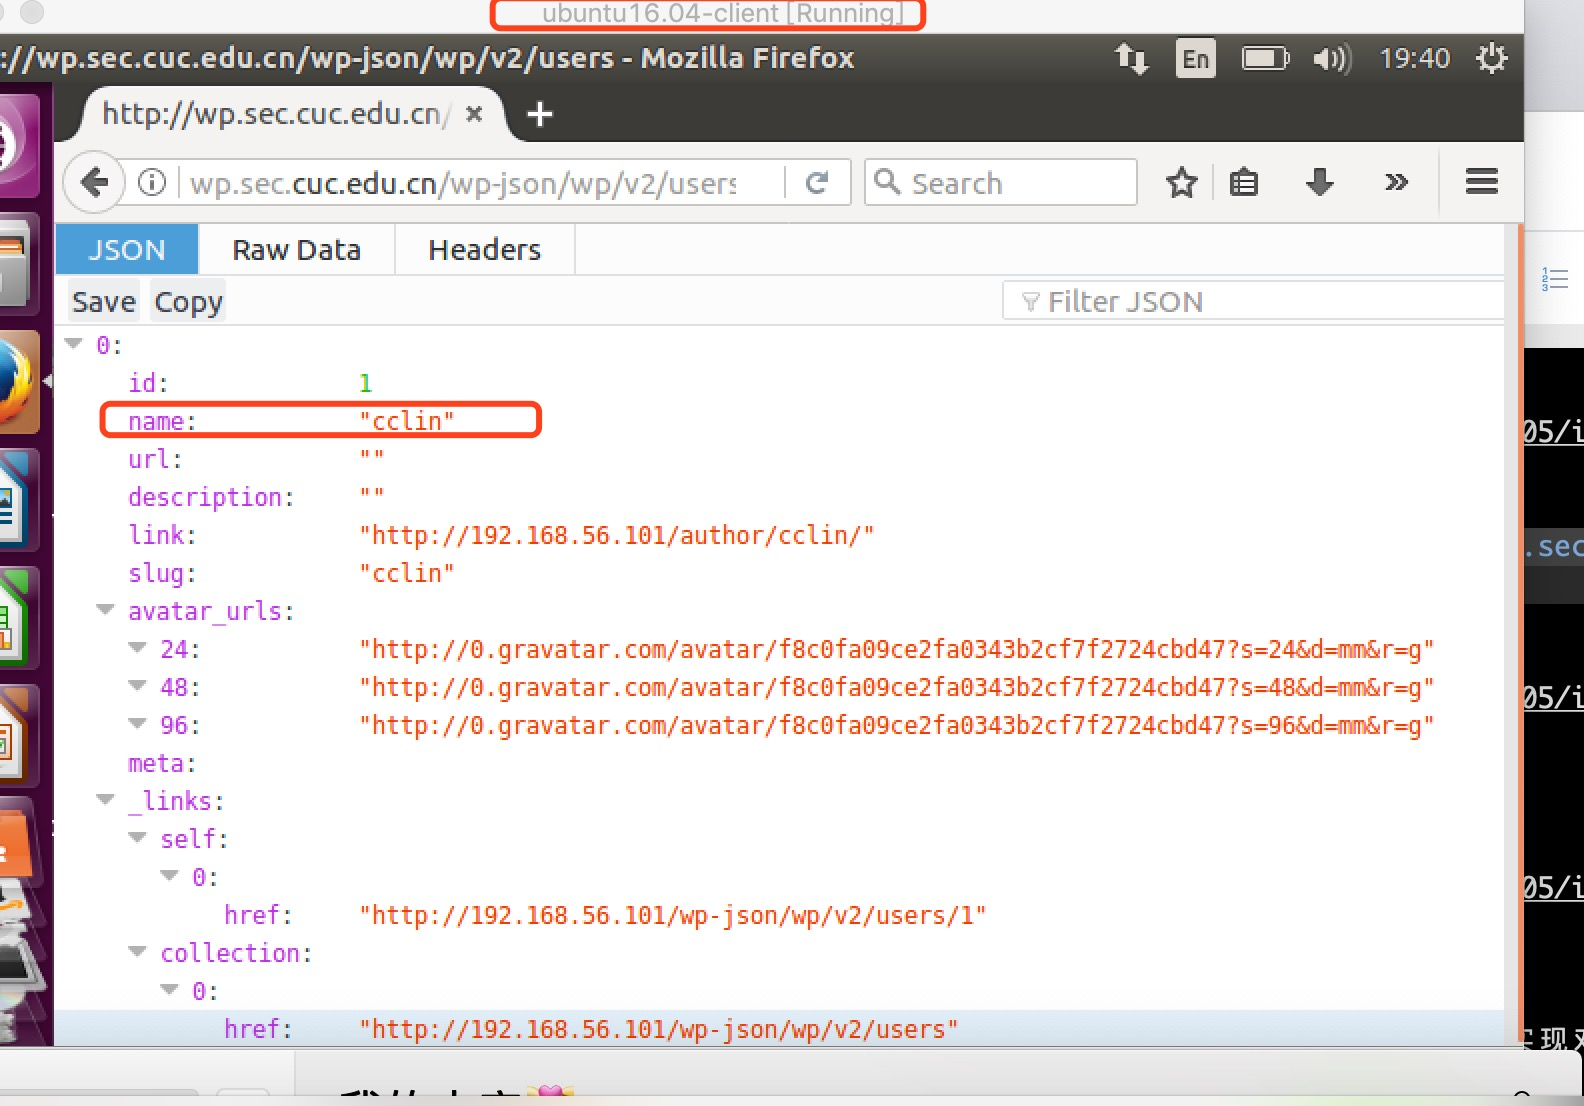
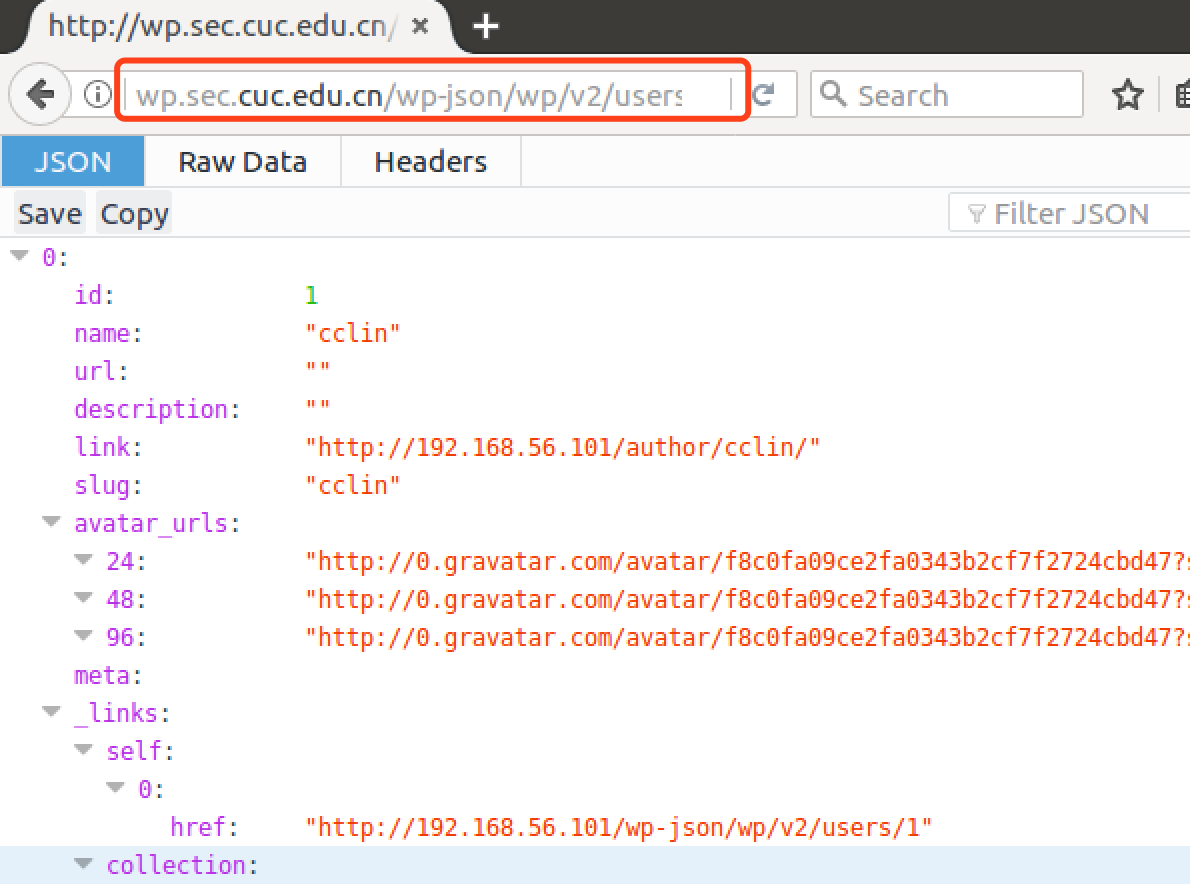
Add missing pictures

diff --git a/Linux系统与网络管理/chap0x05/chap0x05 web server.md b/Linux系统与网络管理/chap0x05/chap0x05 web server.md
@@ -26,26 +26,34 @@
     - 禁止curl访问
 
 ### 三、实验环境
-- 实验环境服务器ip地址说明：由于实验时间跨度交到，分别多次进行，开启服务器顺序不同，所以ip地址设置并不唯一不变，但三个服务器均配置NAT与hostonly：196.168.56.*/24两块网卡
+- 实验环境服务器ip地址说明：由于实验时间跨度交到，分别多次进行，开启服务器顺序不同，所以ip地址设置并不唯一不变，但三个服务器均配置NAT与hostonly：196.168.56.*/24两块网卡(下列标明实验结果中展示服务器与客户机ip地址)
+
 - 服务器×3
   -  Ubuntu 16.04-1
      - Ubuntu 16.04 desktop 64bit
-     - host only，NAT
+     - host only:192.168.56.104，NAT
      - nginx/1.10.0
      - verynginx
   -  ubuntu 16.04-2
       - Ubuntu 16.04 desktop 64bit
-      - host only,NAT
+      - host only:192.168.56.101,NAT
       - wordpress 4.
       - nginx
   -  ubuntu 16.04-3
      - Ubuntu 16.04 desktop 64bit
-     - host only,NAT
+     - host only:192.168.56.103,NAT
      - dvwa 1.10
      - nginx
+     
+服务器名称   |       ubuntu16.04-1         |     ubuntu16.04-2       |         ubuntu16.04-3
+    ---    |            ---              |           ---           |               ---
+ ip 地址    |       192.168.56.104        |      192.168.56.101     |         192.168.56.103
+   配置     | verynginx+nginx(http:80端口) | dvwa+nginx(http:80端口) | wordpress+nginx(http:80端口;https:443端口)
+
 - 客户端×2
    - macOS Mojave 10.14.4
    - ubuntu16.04-client（PD虚拟机内部）
+     - host only:192.168.56.102
 
 ### 四、实验过程
 #### (一) 安装配置环境
@@ -384,17 +392,17 @@ if ( defined( 'RELOCATE' ) && RELOCATE ) { // Move flag is set
     ![](/Linux系统与网络管理/chap0x05/images/ubuntu1_hosts.png)
     ![](/Linux系统与网络管理/chap0x05/images/ubuntuc_hosts.png)
     ![](/Linux系统与网络管理/chap0x05/images/ubuntum_hosts.png)
-
+    
       - Matcher
-
+    
     ![](/Linux系统与网络管理/chap0x05/images/basic_matcher.png)
-
+    
       - Up Stream,Proxy Pass
-
+    
     ![](/Linux系统与网络管理/chap0x05/images/proxypass.png)
-
+    
       - 结果：Ubuntu16.04-1、macOS-client分别访问`http://dvwa.sec.cuc.edu.cn`,`http://wp.sec.cuc.edu.cn`
-
+    
     ![](/Linux系统与网络管理/chap0x05/images/dvwa_proxy.png)
     ![](/Linux系统与网络管理/chap0x05/images/wp_proxy.png)
     ![](/Linux系统与网络管理/chap0x05/images/mdvwa_proxy.png)
@@ -425,6 +433,7 @@ if ( defined( 'RELOCATE' ) && RELOCATE ) { // Move flag is set
 #### 安全加固要求
 
 - [ ] 使用IP地址方式均无法访问上述任意站点，并向访客展示自定义的友好错误提示信息页面-1
+
 - [x] ubuntu16.04-1配置
    - Matcher
 
@@ -443,6 +452,7 @@ if ( defined( 'RELOCATE' ) && RELOCATE ) { // Move flag is set
      ![](/Linux系统与网络管理/chap0x05/images/ip_dissucceed.png)
 
 - [ ] Damn Vulnerable Web Application (DVWA)只允许白名单上的访客来源IP，其他来源的IP访问均向访客展示自定义的友好错误提示信息页面-2
+
 - [x] ubuntu16.04-1配置:将ubuntu16.04-client ip：`192.168.56.102`列入白名单
    - Matcher
 
@@ -467,21 +477,48 @@ if ( defined( 'RELOCATE' ) && RELOCATE ) { // Move flag is set
 
    - Matcher
 
-     ![](/Linux系统与网络管理/chap0x05/images/wp_uedisabled.png)
+      ![](/Linux系统与网络管理/chap0x05/images/wp_uedisabled.png)
+
+   - Response
+
+      ![](/Linux系统与网络管理/chap0x05/images/wp_ueresponse.png)
 
    - Filter
 
-     ![](/Linux系统与网络管理/chap0x05/images/wp_uefilter.png)
+      ![](/Linux系统与网络管理/chap0x05/images/wp_uefilter.png)
 
-   - 结果：ubuntu16.04-client访问`wp.sec.cuc.edu.cn/wp-json/wp/v2/users`
-     - 未设置过滤规则之前
+   - 结果：ubuntu16.04-client访问`wp.sec.cuc.edu.cn/wp-json/wp/v2/users/`
+      - 未设置过滤规则之前
 
-     ![](/Linux系统与网络管理/chap0x05/images/wp_uefailed.png)     
+         ![](/Linux系统与网络管理/chap0x05/images/wp_uefailed.png)     
 
      - 设置过滤规则后
 
-     ![](/Linux系统与网络管理/chap0x05/images/wp_uesucceed.png)
+        ![](/Linux系统与网络管理/chap0x05/images/wp_uesucceed.png)
+      
+- [ ] 在不升级Wordpress版本的情况下，通过定制VeryNginx的访问控制策略规则，热修复WordPress < 4.7.1 - Username Enumeration
+- [x] ubuntu16.04-1配置[`访问/wp-json/wp/v2/users/可以获取wordpress用户信息的json数据，禁止访问·`wp.sec.cuc.edu.cn`站点的/wp-json/wp/v2/users/路径`](https://github.com/CUCCS/linux/blob/master/2017-1/zjy/exp5/exp5%E5%AE%9E%E9%AA%8C%E6%8A%A5%E5%91%8A.md)
 
+- Matcher
+
+![](/Linux系统与网络管理/chap0x05/images/wp_uedisabled.png)
+
+- Response
+
+![](/Linux系统与网络管理/chap0x05/images/wp_ueresponse.png)
+
+- Filter
+
+![](/Linux系统与网络管理/chap0x05/images/wp_uefilter.png)
+
+- 结果：ubuntu16.04-client访问`wp.sec.cuc.edu.cn/wp-json/wp/v2/users/`
+- 未设置过滤规则之前
+
+![](/Linux系统与网络管理/chap0x05/images/wp_uefailed.png)     
+
+- 设置过滤规则后
+
+![](/Linux系统与网络管理/chap0x05/images/wp_uesucceed.png)
 
 - [ ] 通过配置VeryNginx的Filter规则实现对Damn Vulnerable Web Application (DVWA)的SQL注入实验在低安全等级条件下进行防护
 - [x] ubuntu16.04-1、ubuntu16.04-3配置
@@ -542,42 +579,25 @@ if ( defined( 'RELOCATE' ) && RELOCATE ) { // Move flag is set
     - [ ] 超过访问频率限制的请求直接返回自定义错误提示信息页面-4
     - [x] ubuntu16.04-1配置
       - Frequency Limit
-
+      
        ![](/Linux系统与网络管理/chap0x05/images/frequencylimit.png)
 
       - Response
-
+     
        ![](/Linux系统与网络管理/chap0x05/images/frequencylimitRE.png)
-
-      - macOS Mojave编写脚本访问`http://dvwa.sec.cuc.edu.cn`
-    ```bash
-    #!/bin/bash
-    # dvwa_frequencytest.sh
-      count=0
-      while [ $count -lt 53 ]
-      do
-         echo "Frequency : $count"
-         curl -v http://dvwa.sec.cuc.edu.cn
-         count=$[ $count + 1 ]
-     done
-    ```
-
-    ![](/Linux系统与网络管理/chap0x05/images/dvwale50succeed.png)
-
-      - macOS Mojave编写脚本访问`http://wp.sec.cuc.edu.cn`
-    ```bash
-    #!/bin/bash
-    # wordpress_frequencytest.sh
-      count=0
-     while [ $count -lt 23 ]
-     do
-        echo "Frequency : $count"
-        curl -v http://wp.sec.cuc.edu.cn/
-        count=$[ $count + 1 ]
-      done
-    ```
-
-    ![](/Linux系统与网络管理/chap0x05/images/wple20succeed.png)
+       
+      - 结果
+      
+        ![](/Linux系统与网络管理/chap0x05/images/dvwale50succeed.png)
+        ![](/Linux系统与网络管理/chap0x05/images/wple20succeed.png)
+        
+        - ubuntu16.04-client执行`sudo apt install apache2-utils`安装`apache2-utils`，执行`ab -c 30 -n 53 http://dvwa.sec.cuc.edu.cn/`
+      
+          ![](/Linux系统与网络管理/chap0x05/images/dvwale50succeed1.png)
+        
+        - ubuntu16.04-client执行`ab -c 10 -n 23 http://wp.sec.cuc.edu.cn/`
+     
+          ![](/Linux系统与网络管理/chap0x05/images/wple20succeed1.png)
 
     - [ ] 禁止curl访问
 
@@ -590,13 +610,13 @@ if ( defined( 'RELOCATE' ) && RELOCATE ) { // Move flag is set
 
 
     ![](/Linux系统与网络管理/chap0x05/images/curldisabled.png)
-
+    
       - Filter
-
+    
     ![](/Linux系统与网络管理/chap0x05/images/curldisabledf.png)
-
+    
       - 结果:ubuntu16.04-client执行`curl -v http://dvwa.sec.cuc.edu.cn`
-
+    
     ![](/Linux系统与网络管理/chap0x05/images/disable_curlsucceed.png)
 
 ### 六、实验问题
@@ -695,6 +715,31 @@ cd ../
 
 ![](/Linux系统与网络管理/chap0x05/images/QUE-7-1.png)
 
+- [ ] 初始通过在ubuntu16.04-client编写bash脚本多次访问`http://wp.sec.edu.cn`与`http://dvwa.sec.edu.cn`但是存在curl命令错误问题
+    ```bash
+        #!/bin/bash
+        # dvwa_frequencytest.sh
+          count=1
+          while [ $count -lt 53 ]
+          do
+             echo "Frequency : $count"
+             curl -I dvwa.sec.cuc.edu.cn
+             count=$[ $count + 1 ]
+         done
+    ```
+    ```bash
+        #!/bin/bash
+        # wordpress_frequencytest.sh
+          count=1
+         while [ $count -lt 23 ]
+         do
+            echo "Frequency : $count"
+            curl -I wp.sec.cuc.edu.cn
+            count=$[ $count + 1 ]
+          done
+   ```
+- [ ] 未解决curl命令执行错误，执行`sudo apt install apache2-utils`安装1`apache2-utils`，并分别执行`ab -c 30 -n 53 http://dvwa.sec.cuc.edu.cn/`
+`ab -c 10 -n 23 http://wp.sec.cuc.edu.cn/`实现高频访问，实验结果中已经展示。
 - [x] 选择用三个虚拟机实现三个服务器，个人认为这样更能模拟真实场景。综合整个实验过程，遇到很多问题，完成整个实验花费时间较长，搜索针对性学习文章、处理选择信息的能力、解决问题能力均有待进一步提高。
 
 ### 七、实验参考
